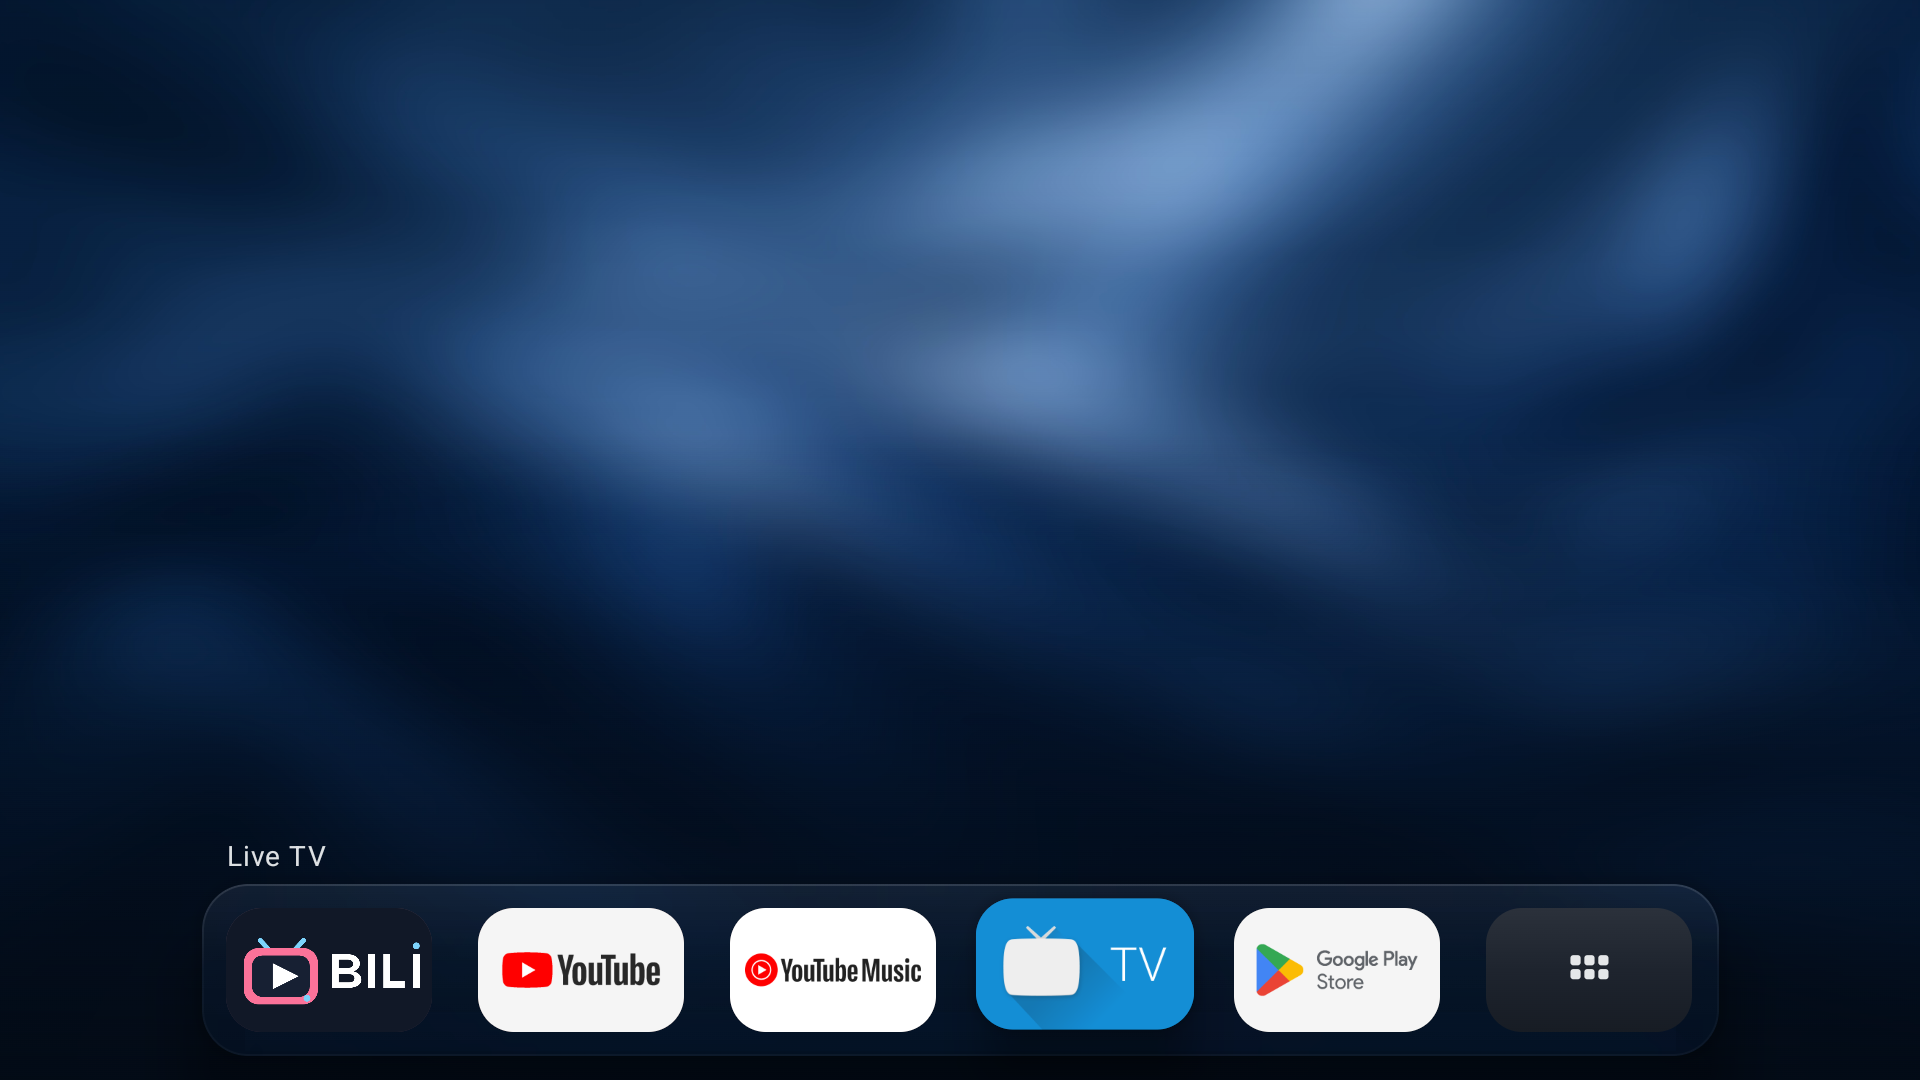
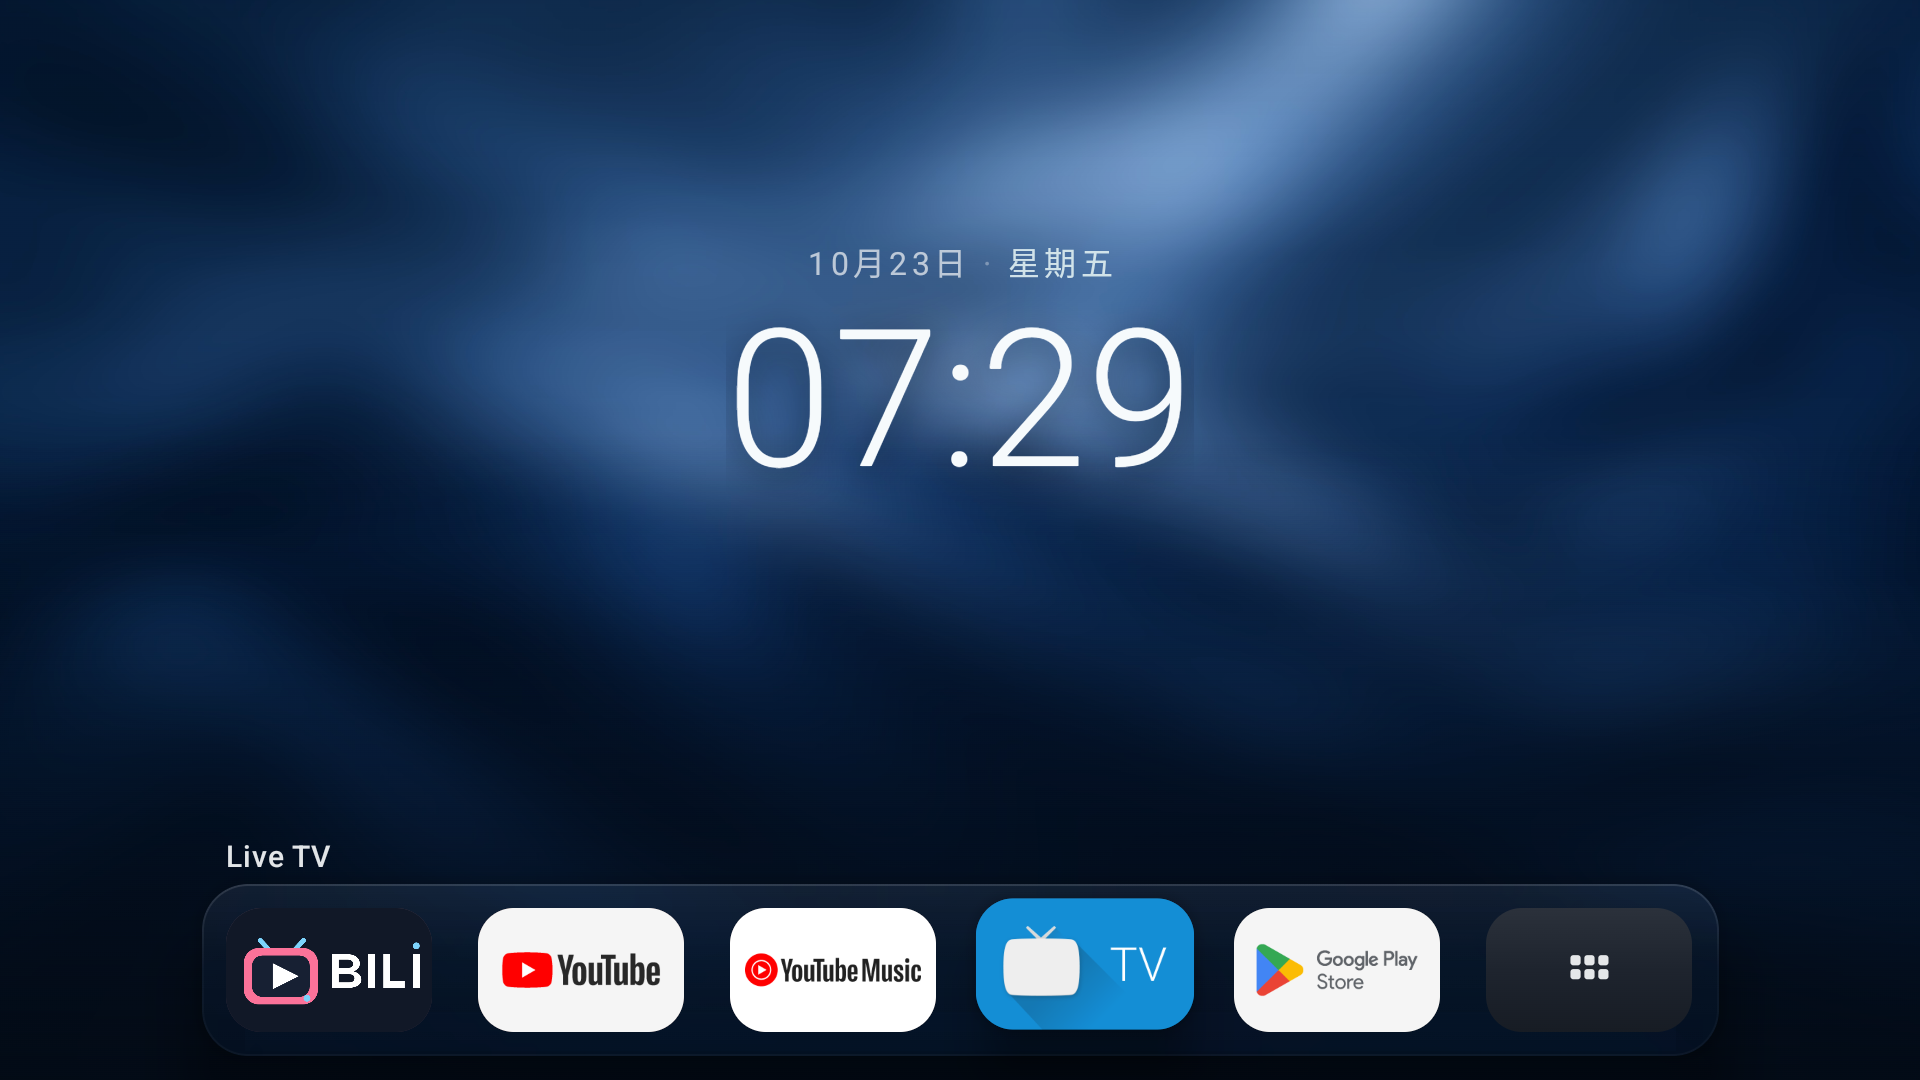
feat: 重做时间日期区并为首排名称加入方向切换动画
- 时间日期改为“日期在上、时间在下”，96sp 细体等宽数字配深蓝投影；纯色与阴影配合，避免渐变 brush 把阴影染成白色光晕
- 首排名称按光标目标渲染并固定在原位置，切换时按左右方向滑出/滑入，快速连按不再闪断；减少动态效果时瞬切
- 补首页时间日期与名称的遥控器断言，完整 14 项套件通过（131.941 秒）；同步设计文档、验证记录与首页截图

diff --git a/app/src/main/java/io/lumatv/launcher/HomePage.kt b/app/src/main/java/io/lumatv/launcher/HomePage.kt
@@ -2,11 +2,14 @@ package io.lumatv.launcher
 
 import androidx.activity.compose.BackHandler
 import androidx.compose.animation.AnimatedContent
+import androidx.compose.animation.SizeTransform
 import androidx.compose.animation.fadeIn
 import androidx.compose.animation.fadeOut
-import androidx.compose.animation.slideInVertically
+import androidx.compose.animation.slideInHorizontally
+import androidx.compose.animation.slideOutHorizontally
 import androidx.compose.animation.togetherWith
 import androidx.compose.animation.core.FastOutSlowInEasing
+import androidx.compose.animation.core.LinearOutSlowInEasing
 import androidx.compose.animation.core.animateFloatAsState
 import androidx.compose.animation.core.tween
 import androidx.compose.foundation.Image
@@ -32,6 +35,8 @@ import androidx.compose.ui.input.key.*
 import androidx.compose.ui.layout.ContentScale
 import androidx.compose.ui.platform.testTag
 import androidx.compose.ui.platform.LocalContext
+import androidx.compose.ui.platform.LocalDensity
+import androidx.compose.ui.text.font.FontWeight
 import androidx.compose.ui.text.style.TextAlign
 import androidx.compose.ui.text.style.TextOverflow
 import androidx.compose.ui.unit.dp
@@ -116,6 +121,8 @@ internal fun HomePage(apps: List<AppEntry>, catalog: List<AppEntry>, config: Lum
             }
         }
     }
+
+    fun dockName(id: String): String = dock.getOrNull(dockIds.indexOf(id))?.displayName ?: "全部应用"
     LaunchedEffect(ids, epoch) {
         // Old stage bookmarks return to the corresponding visible app, never an invisible target.
         val saved = memory.mark.id.removePrefix("@hero:")
@@ -191,6 +198,18 @@ internal fun HomePage(apps: List<AppEntry>, catalog: List<AppEntry>, config: Lum
             1f to Color(0xFF030A14).copy(alpha = .88f))))
         Box(Modifier.fillMaxSize().background(Color(0xFF04070B).copy(alpha = .10f * expansion)))
 
+        // The resting home has a visual anchor above the dock; the library owns this space
+        // once opened. Use the same progress so a rapid reversal also brings the clock back.
+        val clockVisibility = (1f - expansion * 2.2f).coerceIn(0f, 1f)
+        if (clockVisibility > 0f) {
+            HomeClock(Modifier.align(Alignment.TopCenter).offset(y = maxHeight * .22f).graphicsLayer {
+                alpha = clockVisibility
+                translationY = -18.dp.toPx() * expansion
+                scaleX = 1f - .02f * expansion
+                scaleY = scaleX
+            })
+        }
+
         // 3. The frosted tray follows the row, fading away as the library opens. It is a
         // decoration behind the tiles and never changes their geometry or receives focus.
         if (expansion < 1f) {
@@ -236,20 +255,35 @@ internal fun HomePage(apps: List<AppEntry>, catalog: List<AppEntry>, config: Lum
             }
         }
 
-        // A separate caption does not move the tiles or consume the bottom safe inset.
-        val captionColumn = dockIds.indexOf(actualFocus)
-        if (captionColumn >= 0 && cursor == actualFocus) {
-            val name = dock.getOrNull(captionColumn)?.displayName ?: "全部应用"
-            Box(Modifier.offset(x = edge, y = firstRowTop - 36.dp)
-                .width(libraryWidth).height(20.dp).testTag("dock-caption"), contentAlignment = Alignment.CenterStart) {
-                AnimatedContent(name, transitionSpec = {
-                    (fadeIn(tween(if (config.reducedMotion) 0 else 180)) +
-                        slideInVertically(tween(if (config.reducedMotion) 0 else 220)) { it / 3 }) togetherWith
-                        fadeOut(tween(if (config.reducedMotion) 0 else 90))
-                }, contentAlignment = Alignment.CenterStart, label = "dock-caption-change") { title ->
-                    Text(title, color = Ink.copy(alpha = .90f), fontSize = 14.sp, maxLines = 1, overflow = TextOverflow.Ellipsis,
-                        textAlign = TextAlign.Start)
-                }
+        // A separate caption does not move the tiles or consume the bottom safe inset. It follows
+        // the logical target rather than the settled focus, so a fast scan never blinks the name
+        // away between moves. The outgoing name leaves in the direction of travel and the incoming
+        // one follows it, so the eye reads a slide instead of a hard cut.
+        val captionId = cursor.takeIf { it in dockIds }
+        val captionMotion = !config.reducedMotion
+        val captionShift = with(LocalDensity.current) { 26.dp.roundToPx() }
+        Box(Modifier.offset(x = edge, y = firstRowTop - 36.dp)
+            .width(libraryWidth).height(20.dp).testTag("dock-caption"), contentAlignment = Alignment.CenterStart) {
+            AnimatedContent(captionId, modifier = Modifier.fillMaxWidth(), transitionSpec = {
+                val from = dockIds.indexOf(initialState ?: "")
+                val to = dockIds.indexOf(targetState ?: "")
+                val direction = if (!captionMotion || from < 0 || to < 0) 0 else (to - from).coerceIn(-1, 1)
+                val swap = captionMotion && direction != 0
+                // The old name is gone before the new one starts fading in: overlapping strings of
+                // different length read as a doubled label, so the hand-off is strictly sequential
+                // and the caption is empty for barely a couple of frames.
+                val lead = if (swap) 100 else 0
+                ((fadeIn(tween(if (captionMotion) 160 else 0, delayMillis = lead, easing = FastOutSlowInEasing)) +
+                    slideInHorizontally(tween(if (captionMotion) 200 else 0, delayMillis = lead,
+                        easing = FastOutSlowInEasing)) { direction * captionShift }) togetherWith
+                    (fadeOut(tween(if (captionMotion) 90 else 0, easing = LinearOutSlowInEasing)) +
+                        slideOutHorizontally(tween(if (captionMotion) 140 else 0,
+                            easing = LinearOutSlowInEasing)) { -direction * captionShift })) using
+                    SizeTransform(clip = false)
+            }, contentAlignment = Alignment.CenterStart, label = "dock-caption-change") { id ->
+                Text(if (id == null) "" else dockName(id), color = Ink.copy(alpha = .92f), fontSize = 15.sp,
+                    fontWeight = FontWeight.Medium, letterSpacing = .4.sp, maxLines = 1,
+                    overflow = TextOverflow.Ellipsis, textAlign = TextAlign.Start)
             }
         }
 

diff --git a/app/src/main/java/io/lumatv/launcher/HomeClock.kt b/app/src/main/java/io/lumatv/launcher/HomeClock.kt
@@ -1,0 +1,93 @@
+package io.lumatv.launcher
+
+import android.content.BroadcastReceiver
+import android.content.Context
+import android.content.Intent
+import android.content.IntentFilter
+import androidx.compose.foundation.layout.Column
+import androidx.compose.foundation.layout.Spacer
+import androidx.compose.foundation.layout.height
+import androidx.compose.runtime.*
+import androidx.compose.ui.Alignment
+import androidx.compose.ui.Modifier
+import androidx.compose.ui.geometry.Offset
+import androidx.compose.ui.graphics.Color
+import androidx.compose.ui.graphics.Shadow
+import androidx.compose.ui.platform.LocalContext
+import androidx.compose.ui.platform.testTag
+import androidx.compose.ui.text.SpanStyle
+import androidx.compose.ui.text.TextStyle
+import androidx.compose.ui.text.buildAnnotatedString
+import androidx.compose.ui.text.font.FontWeight
+import androidx.compose.ui.text.style.TextAlign
+import androidx.compose.ui.text.withStyle
+import androidx.compose.ui.unit.dp
+import androidx.compose.ui.unit.sp
+import androidx.core.content.ContextCompat
+import androidx.tv.material3.Text
+import java.time.ZonedDateTime
+import java.time.format.DateTimeFormatter
+import java.util.Locale
+import kotlinx.coroutines.delay
+
+/**
+ * Local device time only. This information area never takes remote focus.
+ *
+ * One small tracked line over one very large numeral line: the date reads as a caption
+ * for the clock instead of a second label competing with it. The numerals are drawn in a
+ * single solid tone with a wide dark shadow so they stay legible over the brightest part
+ * of the wallpaper; tinting them themselves would turn that shadow into a light halo.
+ */
+@Composable
+internal fun HomeClock(modifier: Modifier = Modifier) {
+    val context = LocalContext.current
+    var now by remember { mutableStateOf(ZonedDateTime.now()) }
+    val timeFormat = remember { DateTimeFormatter.ofPattern("HH:mm", Locale.SIMPLIFIED_CHINESE) }
+    val dateFormat = remember { DateTimeFormatter.ofPattern("M月d日", Locale.SIMPLIFIED_CHINESE) }
+    val weekdayFormat = remember { DateTimeFormatter.ofPattern("EEEE", Locale.SIMPLIFIED_CHINESE) }
+    DisposableEffect(context) {
+        val receiver = object : BroadcastReceiver() {
+            override fun onReceive(context: Context, intent: Intent) { now = ZonedDateTime.now() }
+        }
+        val filter = IntentFilter().apply {
+            addAction(Intent.ACTION_TIME_CHANGED)
+            addAction(Intent.ACTION_TIMEZONE_CHANGED)
+            addAction(Intent.ACTION_DATE_CHANGED)
+        }
+        ContextCompat.registerReceiver(context, receiver, filter, ContextCompat.RECEIVER_NOT_EXPORTED)
+        onDispose { context.unregisterReceiver(receiver) }
+    }
+    LaunchedEffect(Unit) {
+        while (true) {
+            now = ZonedDateTime.now()
+            delay(60_000L - System.currentTimeMillis().mod(60_000L))
+        }
+    }
+    val dateLine = remember(now) {
+        buildAnnotatedString {
+            withStyle(SpanStyle(color = Ink.copy(alpha = .70f))) { append(now.format(dateFormat)) }
+            withStyle(SpanStyle(color = Ink.copy(alpha = .34f))) { append(" · ") }
+            withStyle(SpanStyle(color = Accent.copy(alpha = .95f), fontWeight = FontWeight.Medium)) {
+                append(now.format(weekdayFormat))
+            }
+        }
+    }
+    val timeStyle = remember {
+        TextStyle(
+            color = Color(0xFFF6FAFC),
+            fontSize = 96.sp,
+            lineHeight = 104.sp,
+            fontWeight = FontWeight.Light,
+            letterSpacing = 0.sp,
+            textAlign = TextAlign.Center,
+            fontFeatureSettings = "tnum",
+            shadow = Shadow(Color(0xFF02060C).copy(alpha = .55f), Offset(0f, 8f), 30f),
+        )
+    }
+    Column(modifier.testTag("home-clock"), horizontalAlignment = Alignment.CenterHorizontally) {
+        Text(dateLine, style = TextStyle(fontSize = 16.sp, letterSpacing = 2.2.sp, textAlign = TextAlign.Center),
+            modifier = Modifier.testTag("home-date"))
+        Spacer(Modifier.height(2.dp))
+        Text(now.format(timeFormat), style = timeStyle, modifier = Modifier.testTag("home-time"))
+    }
+}

diff --git a/app/src/androidTest/java/io/lumatv/launcher/RemoteNavigationTest.kt b/app/src/androidTest/java/io/lumatv/launcher/RemoteNavigationTest.kt
@@ -395,8 +395,19 @@ class RemoteNavigationTest {
             assertTrue(glass.left >= root.left && glass.right <= root.right)
             compose.onNodeWithTag("app-grid").assertIsNotDisplayed()
             compose.onNode(isFocused()).assertIsDisplayed()
+            compose.onNodeWithTag("home-clock").assertIsDisplayed()
+            compose.onNodeWithTag("home-time").assertIsDisplayed()
+            compose.onNodeWithTag("home-date").assertIsDisplayed()
         }
         assertCollapsedLibrary()
+        val clock = compose.onNodeWithTag("home-clock").fetchSemanticsNode().boundsInRoot
+        assertTrue(clock.top >= root.top && clock.bottom < firstRow.top - 36f * density)
+        assertEquals(root.center.x, clock.center.x, 1f)
+        val shownTime = compose.onNodeWithTag("home-time").fetchSemanticsNode().config[SemanticsProperties.Text].single().text
+        assertTrue(shownTime.matches(Regex("[0-2][0-9]:[0-5][0-9]")))
+        val today = java.time.ZonedDateTime.now().format(
+            java.time.format.DateTimeFormatter.ofPattern("M月d日 · EEEE", java.util.Locale.SIMPLIFIED_CHINESE))
+        compose.onNodeWithTag("home-date").assertTextEquals(today)
         press(android.view.KeyEvent.KEYCODE_DPAD_UP)
         assertEquals(initial, focusedTag()) // Wallpaper has no invisible focus targets.
         compose.onNodeWithTag("dock-caption").assertIsDisplayed()
@@ -427,6 +438,10 @@ class RemoteNavigationTest {
             assertEquals(firstRow.height, movingRow.height, 1f)
             compose.onNodeWithTag("home-dock-glass").assertExists()
             device.takeScreenshot(java.io.File(compose.activity.getExternalFilesDir(null), "expansion-middle.png"))
+            // Clear the time/date before the library enters the upper information area.
+            compose.mainClock.advanceTimeBy(160)
+            compose.waitForIdle()
+            compose.onNodeWithTag("home-clock").assertDoesNotExist()
             // Reverse before completion: both rows must remain together, then settle at the bottom.
             device.pressDPadUp()
             compose.mainClock.advanceTimeByFrame()
@@ -453,6 +468,7 @@ class RemoteNavigationTest {
         compose.onNode(isFocused()).assertIsDisplayed()
         compose.onNodeWithTag("app-grid").assertIsDisplayed()
         compose.onNodeWithTag("home-dock-glass").assertDoesNotExist()
+        compose.onNodeWithTag("home-clock").assertDoesNotExist()
         val bounds = compose.onNode(isFocused()).fetchSemanticsNode().boundsInRoot
         assertTrue(bounds.top > 200f && bounds.bottom < 900f)
         press(android.view.KeyEvent.KEYCODE_DPAD_UP)

diff --git a/README.md b/README.md
@@ -8,7 +8,7 @@ Kotlin · Jetpack Compose · Android 8.0+ · MIT License
 
 ## 界面
 
-首页以高斯模糊的「深蓝丝绸」壁纸为底场，切换应用时不再把应用Logo放大铺满。前五个收藏与“全部应用”以轻悬浮Dock收起在画面底部：整排居中缩窄至原可用宽度的85%，图块底边留24dp安全间距，下方网格完全隐藏。首排保留更通透的圆角磨砂玻璃底板，外扩12dp，壁纸切片以48%不透明度叠加浅色材质和细边缘高光。向下呼出网格时，两排一起平滑升到顶部，玻璃底板同步淡出；收起时一同回到底部并恢复底板。展开约380毫秒、收起约320毫秒，支持中途反向；网格图块分批淡入、轻微上浮，布局列宽和行距不变。背景亮光集中于上半部，下半部渐进压暗；焦点切换带动壁纸轻微视差、展开时略微推近，名称带淡入过渡；开启“减少动态效果”可关闭新增运动。应用图块使用本机真实横幅，缺失时退回图标；只有焦点项显示名称，首排名称固定在托盘左上方，下方网格名称在图块下方。没有标题栏、时钟或卡片描边。
+首页以高斯模糊的「深蓝丝绸」壁纸为底场，切换应用时不再把应用Logo放大铺满。前五个收藏与“全部应用”以轻悬浮Dock收起在画面底部：整排居中缩窄至原可用宽度的85%，图块底边留24dp安全间距，下方网格完全隐藏。首排保留更通透的圆角磨砂玻璃底板，外扩12dp，壁纸切片以48%不透明度叠加浅色材质和细边缘高光。向下呼出网格时，两排一起平滑升到顶部，玻璃底板同步淡出；收起时一同回到底部并恢复底板。展开约380毫秒、收起约320毫秒，支持中途反向；网格图块分批淡入、轻微上浮，布局列宽和行距不变。背景亮光集中于上半部，下半部渐进压暗；焦点切换带动壁纸轻微视差、展开时略微推近。首排名称随左右方向滑入滑出，不再原地淡入淡出；开启“减少动态效果”可关闭新增运动。应用图块使用本机真实横幅，缺失时退回图标；只有焦点项显示名称，首排名称固定在托盘左上方，下方网格名称在图块下方。上方以“日期在上、时间在下”的大时钟形成视觉重心，呼出网格时淡出；没有标题栏或卡片描边。
 
 ![Luma TV 首页](docs/screenshots/home.png)
 
@@ -74,7 +74,7 @@ Debug APK 输出：`app/build/outputs/apk/debug/app-debug.apk`，包名 `io.luma
 
 ## 验证与限制
 
-当前改版已完成编译、4项单元测试、覆盖安装与启动，5项相关遥控器回归通过，覆盖展开/收起、中间帧焦点裁切、名称位置、快速方向与确认、设置返回恢复，以及模糊和减少动态效果。完整遥控器套件现有14项，本次未全部重跑；此前完整套件记录见[验证文档](docs/validation.md)。编译、安装、启动和交互是分别记录的验证结果。
+当前改版已完成编译、4项单元测试、覆盖安装与启动，并通过完整14项遥控器套件（`OK (14 tests)`，131.941秒）：首排名称方向切换与时间日期重排的断言、日期文本、时钟位置与退场、展开/收起及中途反向、快速方向与确认、焦点裁切、长收藏与设置返回恢复。首轮因模拟器长时间运行后内存与交换耗尽而卡住，重启同一模拟器（未清数据）后重跑通过。此前轻悬浮Dock与时间日期区的分段回归记录见[验证文档](docs/validation.md)。编译、安装、启动和交互是分别记录的验证结果。
 
 实体 TCL / Xiaomi、4K、稳定帧率和长期运行尚未验收。没有内容源、账号、影视聚合、继续观看或云服务；不读取其他应用私有数据。组件名变更时暂不自动迁移收藏，系统低分辨率横幅放大后可能偏软。
 

diff --git a/docs/validation.md b/docs/validation.md
@@ -2,6 +2,16 @@
 
 以下为0.2.0开发版本的本地验证记录，不代表所有Android TV设备均通过验收。原始日志、设备转储和测试APK保存在维护者本地，未随仓库公开。仓库中的截图来自实际运行界面。
 
+## 2026-10-23：首排名称切换动画与时间日期重排
+
+- 首排名称改为按光标（`cursor`）而非已落地焦点渲染，消除快速连按时名称先消失再出现的问题；名称位置固定，不再随名称长短跳位，字号14sp→15sp中黑。切换按方向性滑动：旧名称90ms淡出并在140ms内朝上一项方向滑出，新名称延迟100ms后160ms淡入、从新方向滑入26dp，`SizeTransform(clip=false)`保证滑动中不被裁切；开启减少动态效果时直接瞬切。
+- 时间日期改为“日期在上、时间在下”：96sp细体等宽数字、`#F6FAFC`纯色，日期16sp字距2.2sp，星期用强调色中黑，中间分隔点34%不透明度，日期与时间间距2dp；22%高度、45.5%进度退场及广播/分钟刷新逻辑不变，日期文本内容未变。
+- 排查中发现用渐变`brush`上色时`Shadow`也取用该brush，数字外圈被染成白色光晕；改为纯色+深蓝投影后消失。该结论已写入设计文档，避免再次用brush做这类文字效果。
+- 动效核对用真实遥控器事件：先`adb shell settings put global animator_duration_scale 10`把过渡放慢10倍，录屏后逐帧确认旧名称淡出、约40ms（换算为真实时长）空档、新名称滑入，全过程两串文字不同时可读；随后恢复`animator_duration_scale 1`。截屏核对最终静止画面，日期、时间、名称的字重与位置正常。
+- `scripts/build.ps1 -Offline`通过：Debug与AndroidTest编译、4项单元测试通过，Lint为0错误、10警告；原有`BILI_TV_API_34`（`emulator-5554`）覆盖安装并启动成功。
+- 完整遥控器套件通过（`OK (14 tests)`，131.941秒），涵盖首排名称与时间日期、日期文本、时钟位置/退场、展开收起及中途反向、快速方向与确认、焦点裁切、长收藏恢复等。首轮因模拟器长时间运行后内存与交换耗尽、系统负载升到约54而卡住，重启同一模拟器（未清数据）后重跑通过；未修改BILI、Home或显示配置。
+- fixture在测试后全部移除，原偏好恢复；实拍首页与切换应用更新到`docs/screenshots/home.png`、`docs/screenshots/home-shelf.png`。录屏与逐帧截图只作动效核对，不代表实体电视帧率验收。
+
 ## 2026-10-23：轻悬浮Dock
 
 - 按用户选择将首页整排居中缩窄至安全区内原可用宽度的85%，图块约103×62dp、列距23dp，首排与下方网格保持一致尺寸和列位。贴底24dp、展开y52dp及原有同步升降保留。
